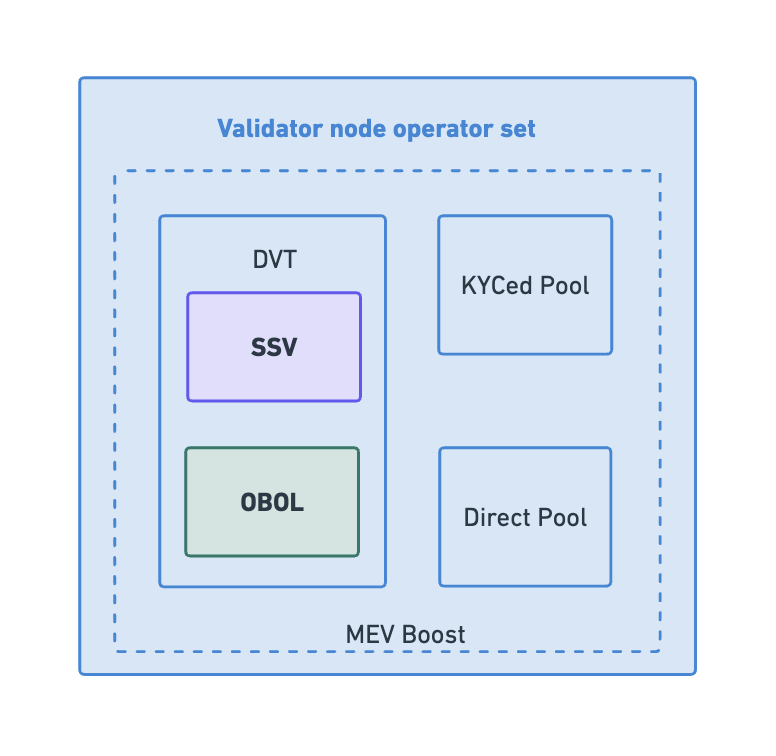
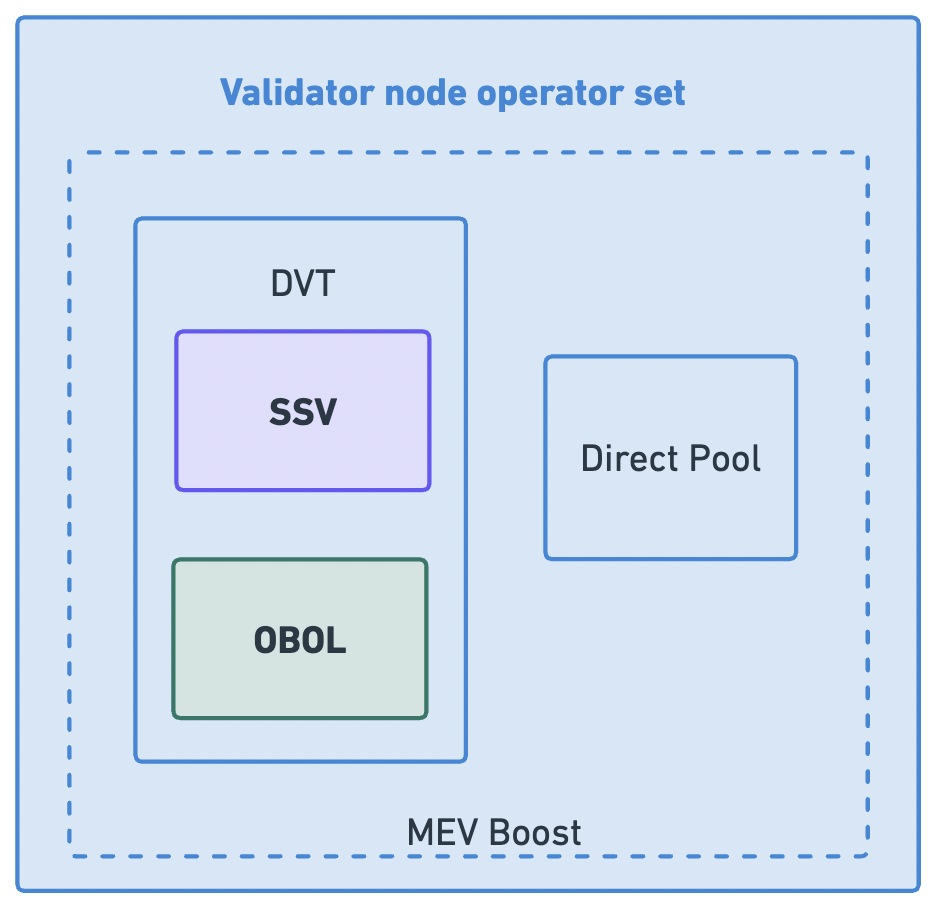
updated diagrams

diff --git a/docs/cseth/dvt.md b/docs/cseth/dvt.md
@@ -33,7 +33,7 @@ The integration with Obol offers an extra layer of decentralization and security
 
 - Security and Trust: By distributing infrastructure management across a broad network of operators, Obol enhances the overall security of the system. It minimizes the risk associated with central points of control and promotes trust in the protocol.
 
-### Private & Public Pools
+### Direct Pools
 
 The integration of both private and public professional pools of nodes for validation within csETH is a groundbreaking development in the realm of liquid staking derivatives. Operators are able to provide ETH for staking while simultaneously taking advantage of the benefits of a liquid staking derivative. This integration introduces a novel layer of versatility and scalability to Ethereum staking.
 
